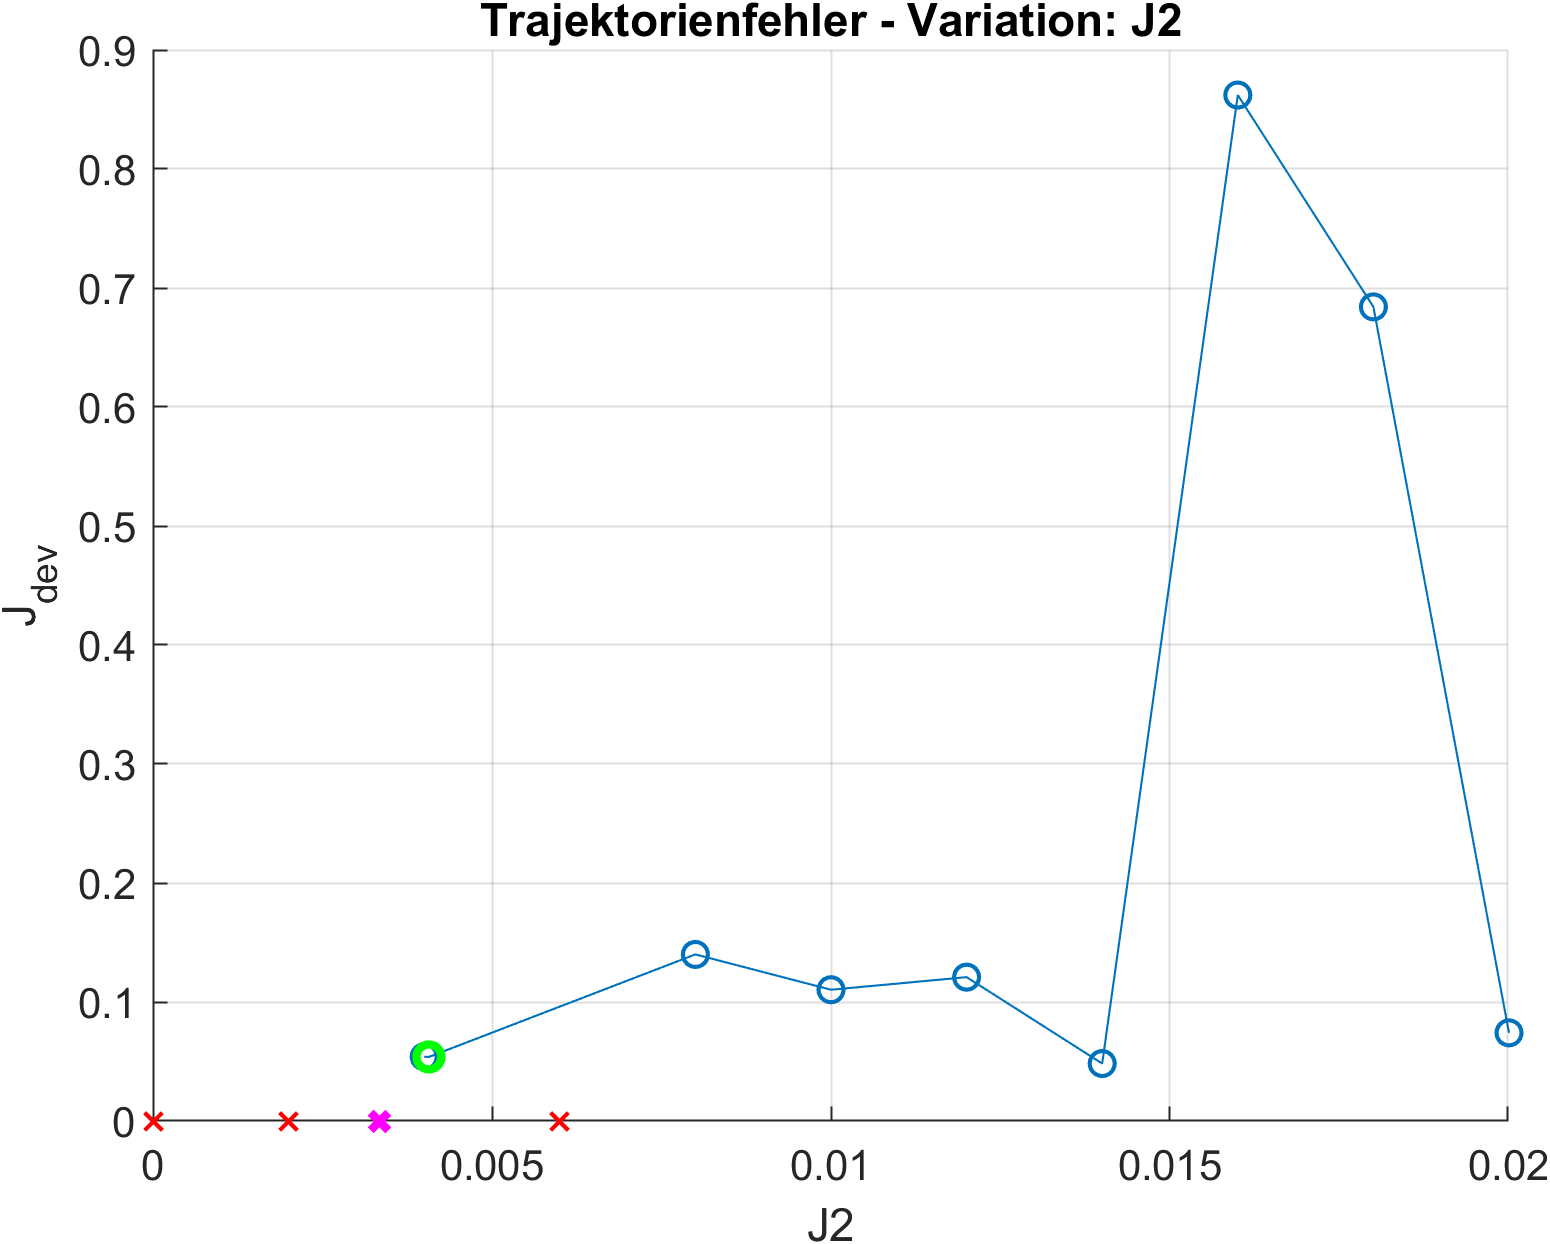
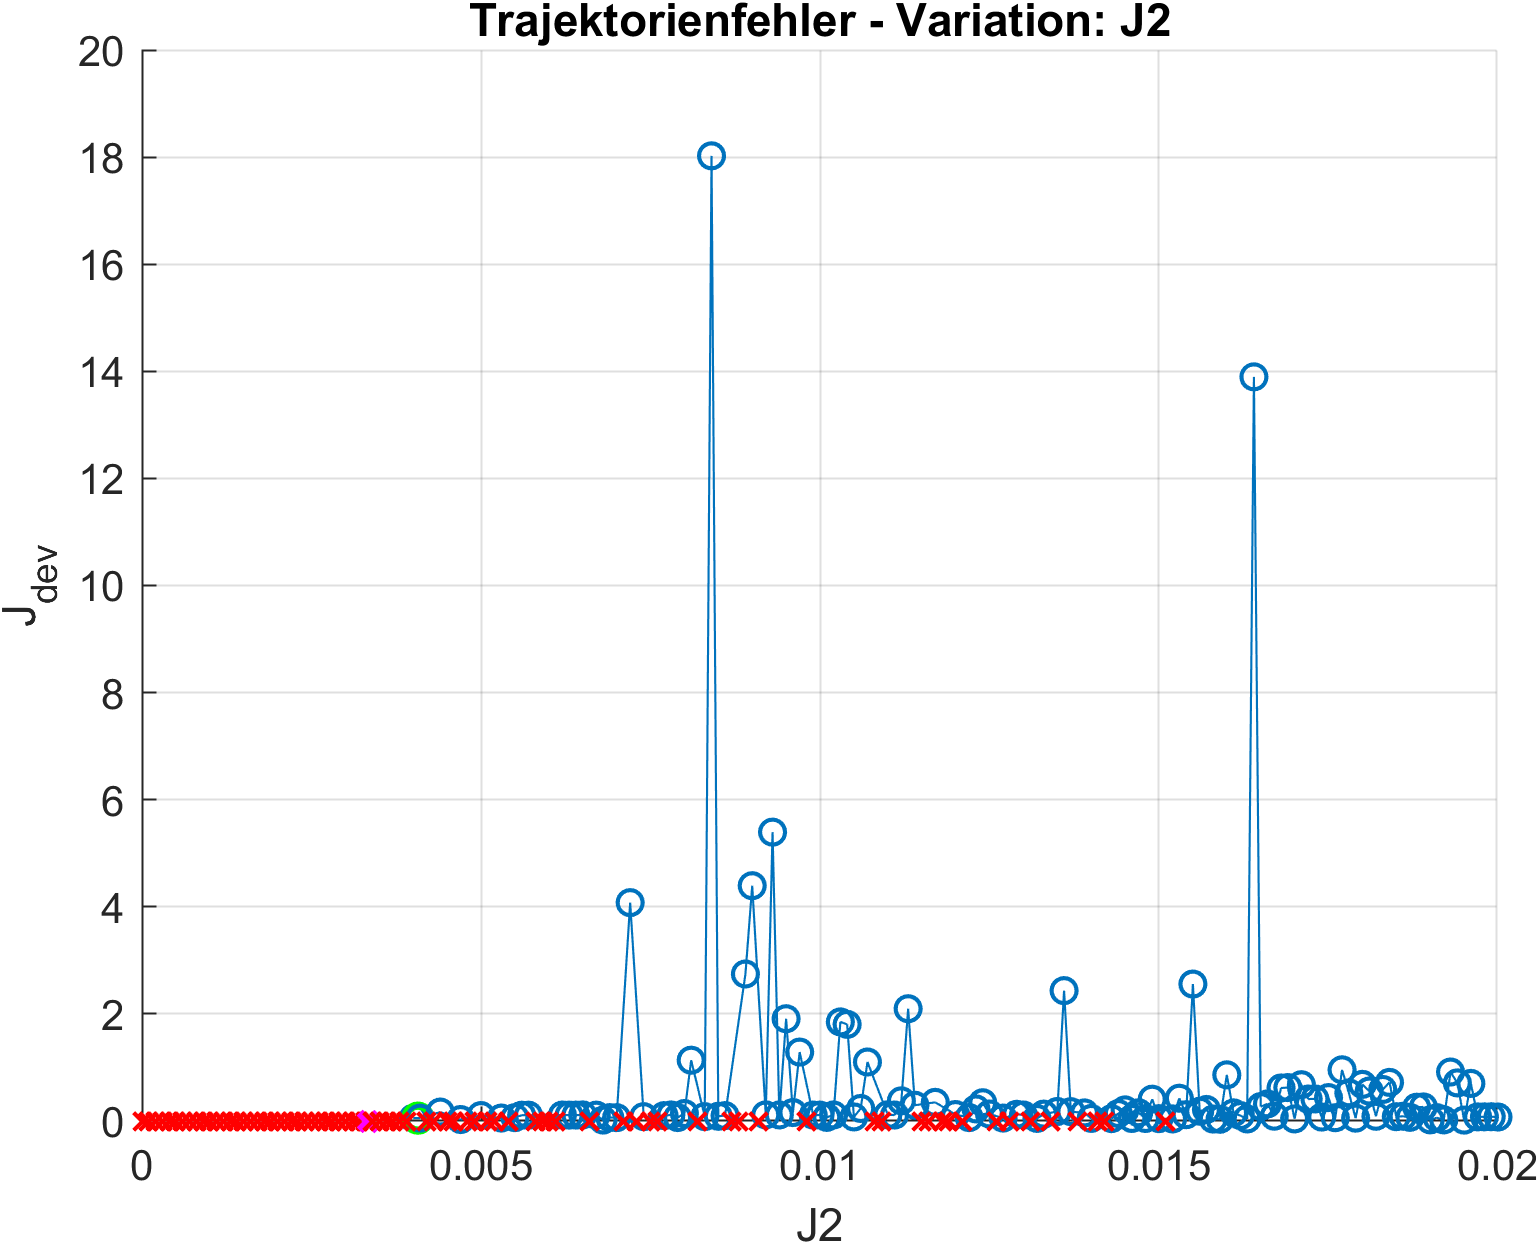
Kapitel Trajektorienberechnung

diff --git a/Ausarbeitung Latex/Kapitel/Modell_Mot.tex b/Ausarbeitung Latex/Kapitel/Modell_Mot.tex
@@ -16,7 +16,7 @@ Gemäß Franke \cite{franke} lässt sich die Dynamik des Wandlers durch ein \mrm
 ergibt.
 
 
-\subsection{Gleichstrommotor}
+\subsection{Gleichstrommotor}\label{subsec:dcMotor}
 
 Bei dem verwendeten Motor handelt es sich um eine fremderregte Gleichstrommaschine, wobei die magnetische Erregung durch einen Permanentmagneten erzeugt wird \cite{franke}. Das elektromagnetische Drehmoment des Gleichstrommotors ist näherungsweise proportional zum Ankerstrom \cite{binder}. Hierbei wird vorausgesetzt, dass keine magnetische Sättigung vorliegt.
 \[
@@ -27,7 +27,7 @@ Neben dem elektromagnetischen Drehmoment sind außerdem parasitäre Reibmomente 
 
 Weiterhin wird das Drehmoment durch die Gegeninduktion geschwächt. Dieser Effekt ist in den Motormodellen von Franke \cite{franke} und den Nachfolgearbeiten bisher nicht berücksichtigt worden. Da die Erfahrung am realen Versuchsstand jedoch gezeigt hat, dass eine Modellierung der Gegeninduktion sinnvoll erscheint, wird diese im Rahmen dieser Arbeit in das Motormodell integriert.
 
-Zum besseren Verständnis des Effekts wird zunächst das physikalische Prinzip der Gegeninduktion betrachtet. Fließt ein Strom durch den ruhenden Anker, der sich im Magnetfeld der Permanentmagneten befindet, so wirkt senkrecht zu den Richtungen des Stroms und des Magnetfelds die Lorenzkraft auf die in der Ankerwicklung befindlichen Ladungsträger (Drei-Finger-Regel bzw. Rechte-Hand-Regel in technischer Stromrichtung). Durch das entstehende Drehmoment beginnt der Anker zu rotieren. Durch die Drehung bewegen sich die Ladungsträger nun zusätzlich zur eigentlichen Stromrichtung auch in Rotationsrichtung des Ankers. Auf diese Bewegungskomponente kann nun erneut das Prinzip der Lorentzkraft angewendet werden. Die resultierende zusätzliche Kraftkomponente, die in Abhängigkeit der Rotationsgeschwindigkeit auf die Ladungsträger wirkt, zeigt nun gegen die Stromrichtung (Lenz'sche Regel). Der resultierenden Ladungsbeschleunigung kann ein Spannungsabfall über der Ankerwicklung zugeordnet werden, die sogenannte induzierte Gegenspannung oder Gegen-EMK (Gegen-Elektromagnetische-Kraft). Der in Folge sinkende Ankerstrom reduziert das Drehmoment des Motors. \cite{binder}
+Zum besseren Verständnis des Effekts wird zunächst das physikalische Prinzip der Gegeninduktion betrachtet. Fließt ein Strom durch den ruhenden Anker, der sich im Magnetfeld der Permanentmagneten befindet, so wirkt senkrecht zu den Richtungen des Stroms und des Magnetfelds die Lorenzkraft auf die in der Ankerwicklung befindlichen Ladungsträger (Drei-Finger-Regel bzw. Rechte-Hand-Regel in technischer Stromrichtung). Durch das entstehende Drehmoment beginnt der Anker zu rotieren. Auf Grund der Rotation bewegen sich die Ladungsträger nun zusätzlich zur eigentlichen Stromrichtung auch in Rotationsrichtung des Ankers. Auf diese Bewegungskomponente kann nun erneut das Prinzip der Lorentzkraft angewendet werden. Die resultierende zusätzliche Kraftkomponente, die in Abhängigkeit der Rotationsgeschwindigkeit auf die Ladungsträger wirkt, zeigt nun gegen die Stromrichtung (Lenz'sche Regel). Der resultierenden Ladungsbeschleunigung kann ein Spannungsabfall über der Ankerwicklung zugeordnet werden, die sogenannte induzierte Gegenspannung oder Gegen-EMK (Gegen-Elektromagnetische-Kraft). Der in Folge sinkende Ankerstrom reduziert das Drehmoment des Motors. \cite{binder}
 
 Am Versuchsstand wird dieser Effekt bei geringen Winkelgeschwindigkeiten durch den Stromregler des Spannungs-Strom-Wandlers kompensiert. Ab einer bestimmten Winkelgeschwindigkeit bei konstantem Sollstrom wird die induzierte Gegenspannung größer als die maximale Zwischenkreisspannung des Spannungs-Strom-Wandlers, sodass nicht mehr ausgeregelt werden kann. Nun nimmt der Ankerstrom und damit das Drehmoment mit steigender Winkelgeschwindigkeit ab bis die Leerlaufdrehzahl erreicht ist. 
 
@@ -110,7 +110,7 @@ I_{a \mrm{, max}}(\omega) = \left\{\begin{array}{lll}
 
 Die Rotorbewegung des Motors wird über das in Abbildung \ref{fig:Getriebe} dargestellte Getriebe und das Antriebszahnrad auf den Zahnriemen weitergegeben. Auf Grund der hohen Steifigkeit des mit eingebetteten Stahlseilen unterstützten Riemens wird dieser wie in Apprich \cite{apprich} als unendlich starr angenommen, sodass die Verbindung von Motor und Schlitten ohne Federkopplung durch eine Übersetzungskonstante modelliert werden kann.
 \[
-	\dot{x} = K_G \cdot \omega
+	\dot{x_0} = K_G \cdot \omega
 \]
  Die Übersetzungskonstante $K_G$ zwischen der Winkelgeschwindigkeit des Motors und der Schlittengeschwindigkeit wird über das Zahnverhältnis und den Antriebsradius berechnet.
 \[

diff --git a/Trajektorien/searchTrajectories.m b/Trajektorien/searchTrajectories.m
@@ -1,4 +1,4 @@
-function searchTrajectories(N, T, simSol, paramsSource, u_max, mode, coulMc, coulFc, selectSuccess, nameExtension, fullFolderPath)
+function searchTrajectories(mode, N, T, simSol, params, u_max, coulMc, coulFc, selectSuccess, nameExtension, fullFolderPath)
 % Suche nach Trajektorien 
 
 import casadi.*
@@ -12,20 +12,13 @@ R = 0.0000005;
 S = 1.5*1e-8;
 
 % --------Modellparameter--------------------------------------------------
-if isstruct(paramsSource)
-    params = paramsSource;
-elseif ischar(paramsSource)   
-    if strcmp(paramsSource, 'app09')
-    params = SchlittenPendelParams_Apprich09();
-    elseif strcmp(paramsSource, 'rib20')
-        params = SchlittenPendelParams_Ribeiro20();
-    else
-        disp('Keine zulässige Parameterquelle (paramsSource) gewählt.')
-        return
-    end
-    paramsStr = ['_' paramsSource];
+if strcmp(params.name, 'Doppelpendel rtm (Ribeiro)')
+    paramsStr = 'rib20';
+elseif strcmp(params.name, 'Doppelpendel rtm (Apprich, Kisner, Brehl)')
+    paramsStr = 'app09';
 else
-    disp('paramsSource hat kein gültiges Format (gültig sind char oder struct).')
+    disp('params.name stimmt mit keinem der bekannten Parametersätze überein.')
+    paramsStr = 'unknownParams';
 end
 
 % --------Zustandsgleichungen (Kraftmodell)--------------------------------
@@ -36,7 +29,7 @@ ode = [];
 coulStatus = '';
 if exist('ode_TesGeb', 'var')
     ode = ode_TesGeb; % ode für MPC übergeben
-    odeStr = '_odeTesGeb';
+    odeStr = '';
     if coulFc && coulMc
         coulStatus = '_Fc_Mc';
     elseif coulFc
@@ -61,9 +54,8 @@ end
 %% Speicherordner
 if ~exist('fullFolderPath', 'var')
     subfolderPath1 = 'Trajektorien\searchResults';
-    subfolderPath2 = ['Results' odeStr paramsStr coulStatus '_T' num2str(T) 'N' num2str(N)];
-    resFolderName = [simSol '_MPC'];
-    fullFolderPath = fullfile(subfolderPath1, subfolderPath2, resFolderName);
+    resFolderName = ['Results' odeStr paramsStr coulStatus '_T' num2str(T) 'N' num2str(N) '_' simSol];
+    fullFolderPath = fullfile(subfolderPath1, resFolderName);
 end
 if ~exist(fullFolderPath, 'dir')
     mkdir(fullFolderPath)

diff --git a/Trajektorien/ToDo_run.m b/Trajektorien/ToDo_run.m
@@ -6,41 +6,51 @@
 % selectSuccess=true;
 % coulMc = true; coulFc = true;
 % nameExtension = '_Mc-rib20_Fc-app09';
-% searchTrajectories(N, T, simSol, paramsSource, u_max, mode, coulMc, coulFc, selectSuccess, nameExtension)
+% searchTrajectories(mode, N, T, simSol, paramsSource, u_max, coulMc, coulFc, selectSuccess, nameExtension)
 
 %% Systemparameter
 N = 500;
 T = 0.005;
 u_max = 410;
 simSol='RK4';
-paramsSource= 'app09';
 
-poi = 'J2';
-val = 0:0.0001:0.02; del = 0:0.002:0.02;
+
+poi = 's2';
+val = 0:0.001:0.338; del = 0.1: 0.02 : 0.3;
 poi_val = []; cnt = 1;
 for i=1 : length(val)
     if ~ismember(val(i),del)
         poi_val(cnt)=val(i); cnt=cnt+1;
     end
 end
-examParameters(poi, poi_val, N, T, simSol, paramsSource, u_max)
-poi = 'J1';
-examParameters(poi, poi_val, N, T, simSol, paramsSource, u_max)
+params= SchlittenPendelParams_Apprich09();
+examParameters(poi, poi_val, N, T, simSol, params, u_max)
+poi = 's1';
+val = 0:0.001:0.29; del = 0.06: 0.005 : 0.1;
+poi_val = []; cnt = 1;
+for i=1 : length(val)
+    if ~ismember(val(i),del)
+        poi_val(cnt)=val(i); cnt=cnt+1;
+    end
+end
+params= SchlittenPendelParams_Apprich09();
+examParameters(poi, poi_val, N, T, simSol, params, u_max)
 
 % poi = ["m1", "m2", "J1", "J2", "s1", "s2"];
 % rib20 = SchlittenPendelParams_Ribeiro20(); 
 % for k=1 : length(poi)
 %     poi_val = rib20.(poi(k));
-%     examParameters(poi(k), poi_val, N, T, simSol, paramsSource, u_max)
+%     params= SchlittenPendelParams_Apprich09();
+%     examParameters(poi(k), poi_val, N, T, simSol, params, u_max)
 % end
 
 % %% Trajektoriensuche
 % N=350; T=0.01; simSol='Euler'; u_max = 400;
-% paramsSource= 'app09';
+% params= SchlittenPendelParams_Apprich09();
 % mode = 2;
 % selectSuccess=false;
 % coulMc = false; coulFc = false;
-% searchTrajectories_alt(N, T, simSol, paramsSource, u_max, mode, coulMc, coulFc, selectSuccess)
+% searchTrajectories_alt(mode, N, T, simSol, params, u_max, coulMc, coulFc, selectSuccess)
 
 
 

diff --git a/Trajektorien/examParameters.m b/Trajektorien/examParameters.m
@@ -1,17 +1,7 @@
-function examParameters(poi, poi_val, N, T, simSol, paramsSource, u_max)
+function examParameters(poi, poi_val, N, T, simSol, params, u_max)
 
 %% Speicherordner
 fullFolderPath = fullfile('Trajektorien', ['ParameterExams_' paramsSource]);
-
-%% Parameter
-if strcmp(paramsSource, 'app09')
-    params = SchlittenPendelParams_Apprich09();
-elseif strcmp(paramsSource, 'rib20')
-    params = SchlittenPendelParams_Ribeiro20();
-else
-    disp('Keine zulässige Parameterquelle (paramsSource) gewählt.')
-    return
-end
 
 %% Durchführung der Versuchsreihe
 for i=1 : length(poi_val)
@@ -26,7 +16,7 @@ for i=1 : length(poi_val)
     coulMc = false;
     coulFc = false;
     nameExtension = ['_' convertStringsToChars(poi) '_' num2str(poi_val(i))];
-    searchTrajectories(N, T, simSol, params, u_max, mode, coulMc, coulFc, selectSuccess, nameExtension, fullFolderPath)
+    searchTrajectories(mode, N, T, simSol, params, u_max, coulMc, coulFc, selectSuccess, nameExtension, fullFolderPath)
 end
 end
 

diff --git a/Ausarbeitung Latex/Schlitten-Doppelpendel.tex b/Ausarbeitung Latex/Schlitten-Doppelpendel.tex
@@ -47,6 +47,15 @@
 \input{common/commonmacros.tex}
 
 \usepackage[straightvoltages]{circuitikz}
+\lstset{literate=%
+  {Ö}{{\"O}}1
+  {Ä}{{\"A}}1
+  {Ü}{{\"U}}1
+  {ß}{{\ss}}1
+  {ü}{{\"u}}1
+  {ä}{{\"a}}1
+  {ö}{{\"o}}1
+}
 
 
 \newcommand*{\Miktex}{\textsc{MiKTeX}\xspace}
@@ -104,6 +113,7 @@
 \input{./Kapitel/Grundlagen.tex}
 \input{./Kapitel/Modell.tex}
 \input{./Kapitel/APRegelung.tex}
+\input{./Kapitel/Trajektorien.tex}
 
 
 

diff --git a/Trajektorien/ParamsAuswertung_run.m b/Trajektorien/ParamsAuswertung_run.m
@@ -21,10 +21,10 @@ i=i+1;
 % poi_val = [0 0.002 0.004 0.006 0.0062 0.0064 0.00647 0.0066 0.0068 0.008 0.01 0.01128 0.012 0.014 0.016 0.018 0.02]; 
 % v1 = 0:0.002:0.02; v2 = 0.0062: 0.0002 : 0.0068; 
 % poi_val = [v1(1:4), v2, v1(5:end)];
-poi_val{i} = 0:0.002:0.02;
+poi_val{i} = 0:0.0001:0.02;
 i=i+1;
 %% J2
-poi_val{i} = 0:0.002:0.02;
+poi_val{i} = 0:0.0001:0.02;
 i=i+1;
 %% s1
 poi_val{i} = 0.06: 0.005 : 0.1;

diff --git a/Ausarbeitung Latex/Kapitel/Modell.tex b/Ausarbeitung Latex/Kapitel/Modell.tex
@@ -57,10 +57,12 @@ Damit lässt sich mit
 \[
 	F_{\mrm{max}} = U_{\mrm{Steuer, max}} \cdot K_{\mrm{staticgain}} = 420,75 N
 \]
-berechnen. 
+berechnen, wobei $K_{UI} = 1,87 \ A/V$ ist.
+Für $K_{UI \mrm{, max}} = 2 \ A/V$ läge die maximale Stellkraft bei $F_{\mrm{max}} = 450N$.
+
+
 
 \subsection{Parameter des Schlittendoppelpendels}\label{subsec:spdparams}
-
 
 
 Apprich \cite{apprich}
